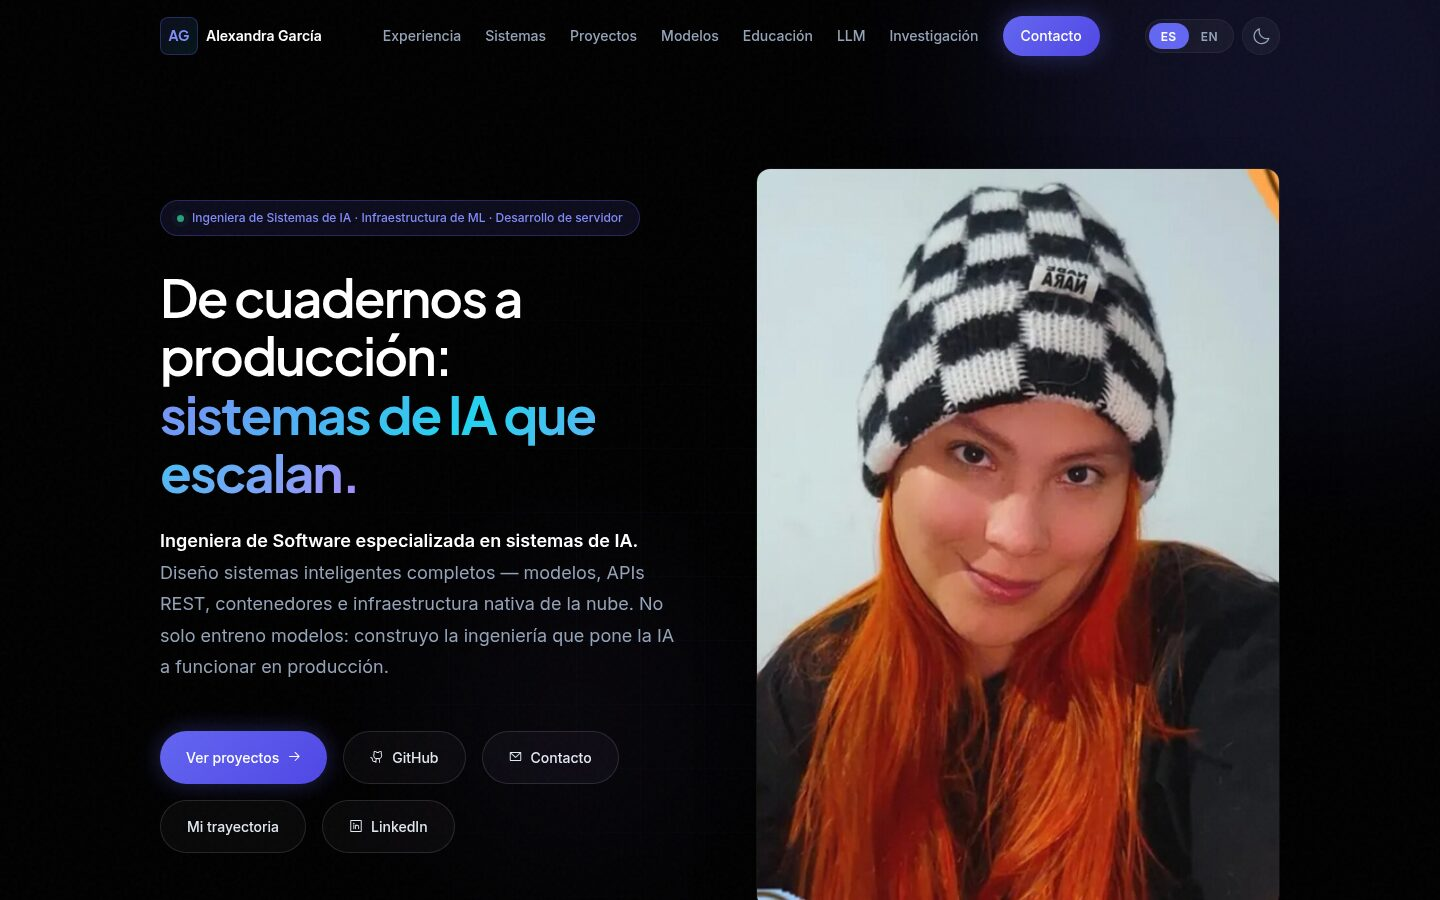
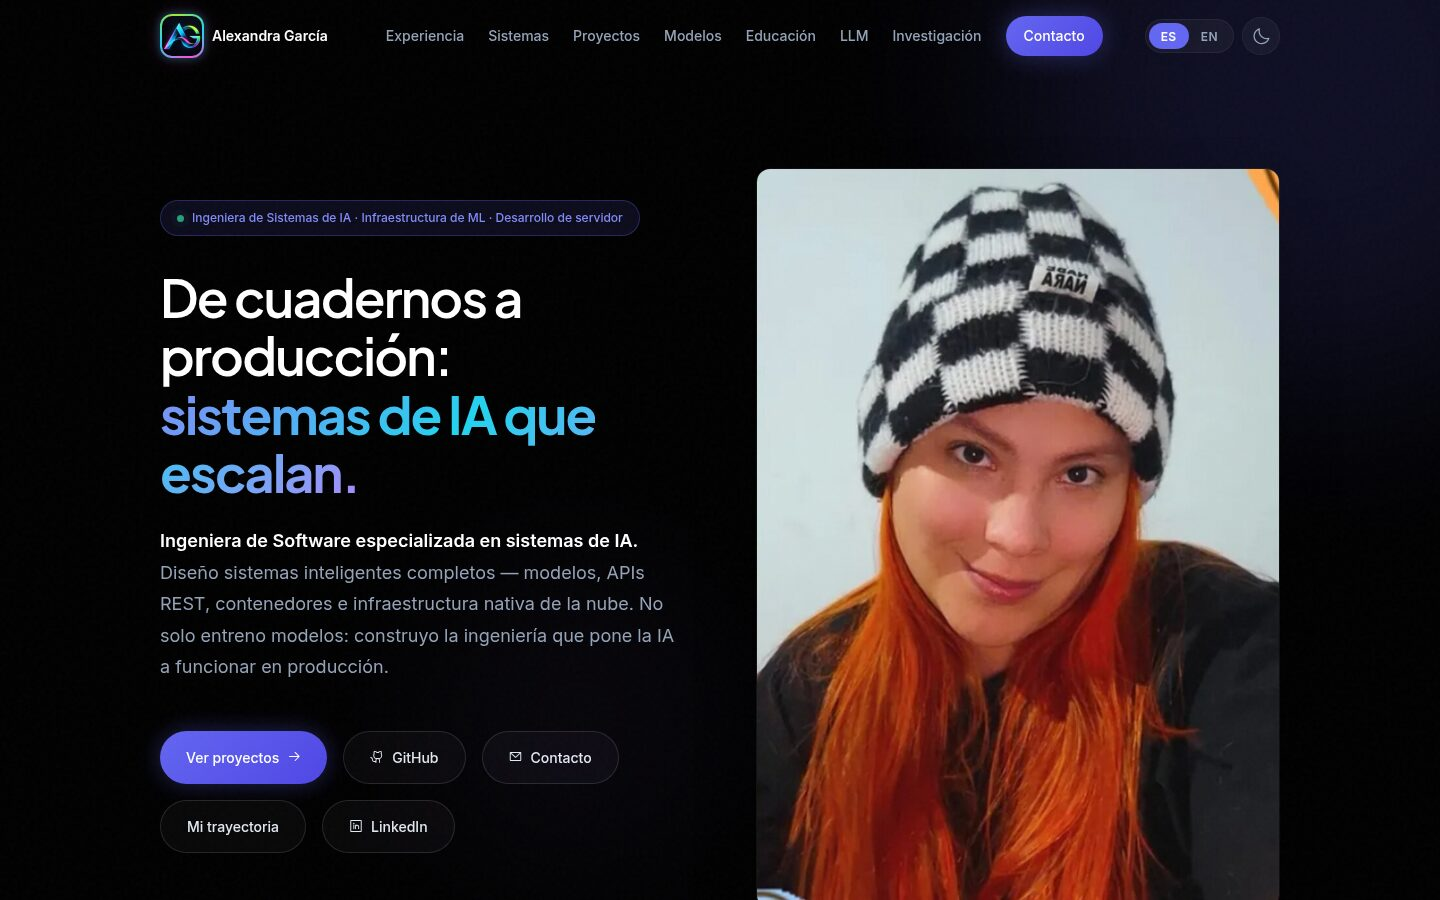
style(hero): quita la cuadrícula del fondo y actualiza capturas del README
- Elimina la capa .hero__grid (oscuro y claro); se conservan fondo y degradados
- Capturas de portada y celular con el logo nuevo y sin cuadrícula
- Sube cache-bust de styles.css a v=20260925f

Changed region(s): [[0.25, 0.0311, 0.7812, 0.0622], [0.0938, 0.0, 0.2188, 0.0622]]

diff --git a/styles.css b/styles.css
@@ -128,12 +128,6 @@ button { cursor: pointer; border: none; background: none; font-family: inherit; 
   border-bottom-color: rgba(30, 41, 59, 0.1);
 }
 
-[data-theme="light"] .hero__grid {
-  background-image:
-    linear-gradient(rgba(79, 70, 229, 0.07) 1px, transparent 1px),
-    linear-gradient(90deg, rgba(79, 70, 229, 0.07) 1px, transparent 1px);
-}
-
 [data-theme="light"] .hero__orb--1 { background: rgba(79, 70, 229, 0.1); }
 [data-theme="light"] .hero__orb--2 { background: rgba(8, 145, 178, 0.08); }
 [data-theme="light"] .hero__orb--3 { background: rgba(124, 58, 237, 0.06); }
@@ -546,16 +540,6 @@ button { cursor: pointer; border: none; background: none; font-family: inherit; 
 }
 
 .hero__bg { position: absolute; inset: 0; pointer-events: none; }
-
-.hero__grid {
-  position: absolute;
-  inset: 0;
-  background-image:
-    linear-gradient(rgba(99, 102, 241, 0.04) 1px, transparent 1px),
-    linear-gradient(90deg, rgba(99, 102, 241, 0.04) 1px, transparent 1px);
-  background-size: 64px 64px;
-  mask-image: radial-gradient(ellipse 70% 60% at 50% 40%, black 10%, transparent 75%);
-}
 
 .hero__orb {
   position: absolute;

diff --git a/index.html b/index.html
@@ -24,7 +24,7 @@
   <link rel="preconnect" href="https://fonts.gstatic.com" crossorigin />
   <link href="https://fonts.googleapis.com/css2?family=Inter:wght@400;500;600&family=JetBrains+Mono:wght@400;500&family=Plus+Jakarta+Sans:wght@500;600;700&display=swap" rel="stylesheet" />
   <script src="https://unpkg.com/@phosphor-icons/web@2.1.1/src/index.js" defer></script>
-  <link rel="stylesheet" href="styles.css?v=20260925e" />
+  <link rel="stylesheet" href="styles.css?v=20260925f" />
 </head>
 <body>
 
@@ -70,7 +70,6 @@
     <!-- HERO -->
     <section class="hero" id="home">
       <div class="hero__bg" aria-hidden="true">
-        <div class="hero__grid"></div>
         <div class="hero__orb hero__orb--1"></div>
         <div class="hero__orb hero__orb--2"></div>
         <div class="hero__orb hero__orb--3"></div>

diff --git a/lab.html b/lab.html
@@ -21,7 +21,7 @@
   <link rel="preconnect" href="https://fonts.gstatic.com" crossorigin />
   <link href="https://fonts.googleapis.com/css2?family=Inter:wght@400;500;600&family=JetBrains+Mono:wght@400;500&family=Plus+Jakarta+Sans:wght@500;600;700&display=swap" rel="stylesheet" />
   <script src="https://unpkg.com/@phosphor-icons/web@2.1.1/src/index.js" defer></script>
-  <link rel="stylesheet" href="styles.css?v=20260925e" />
+  <link rel="stylesheet" href="styles.css?v=20260925f" />
 </head>
 <body>
 
